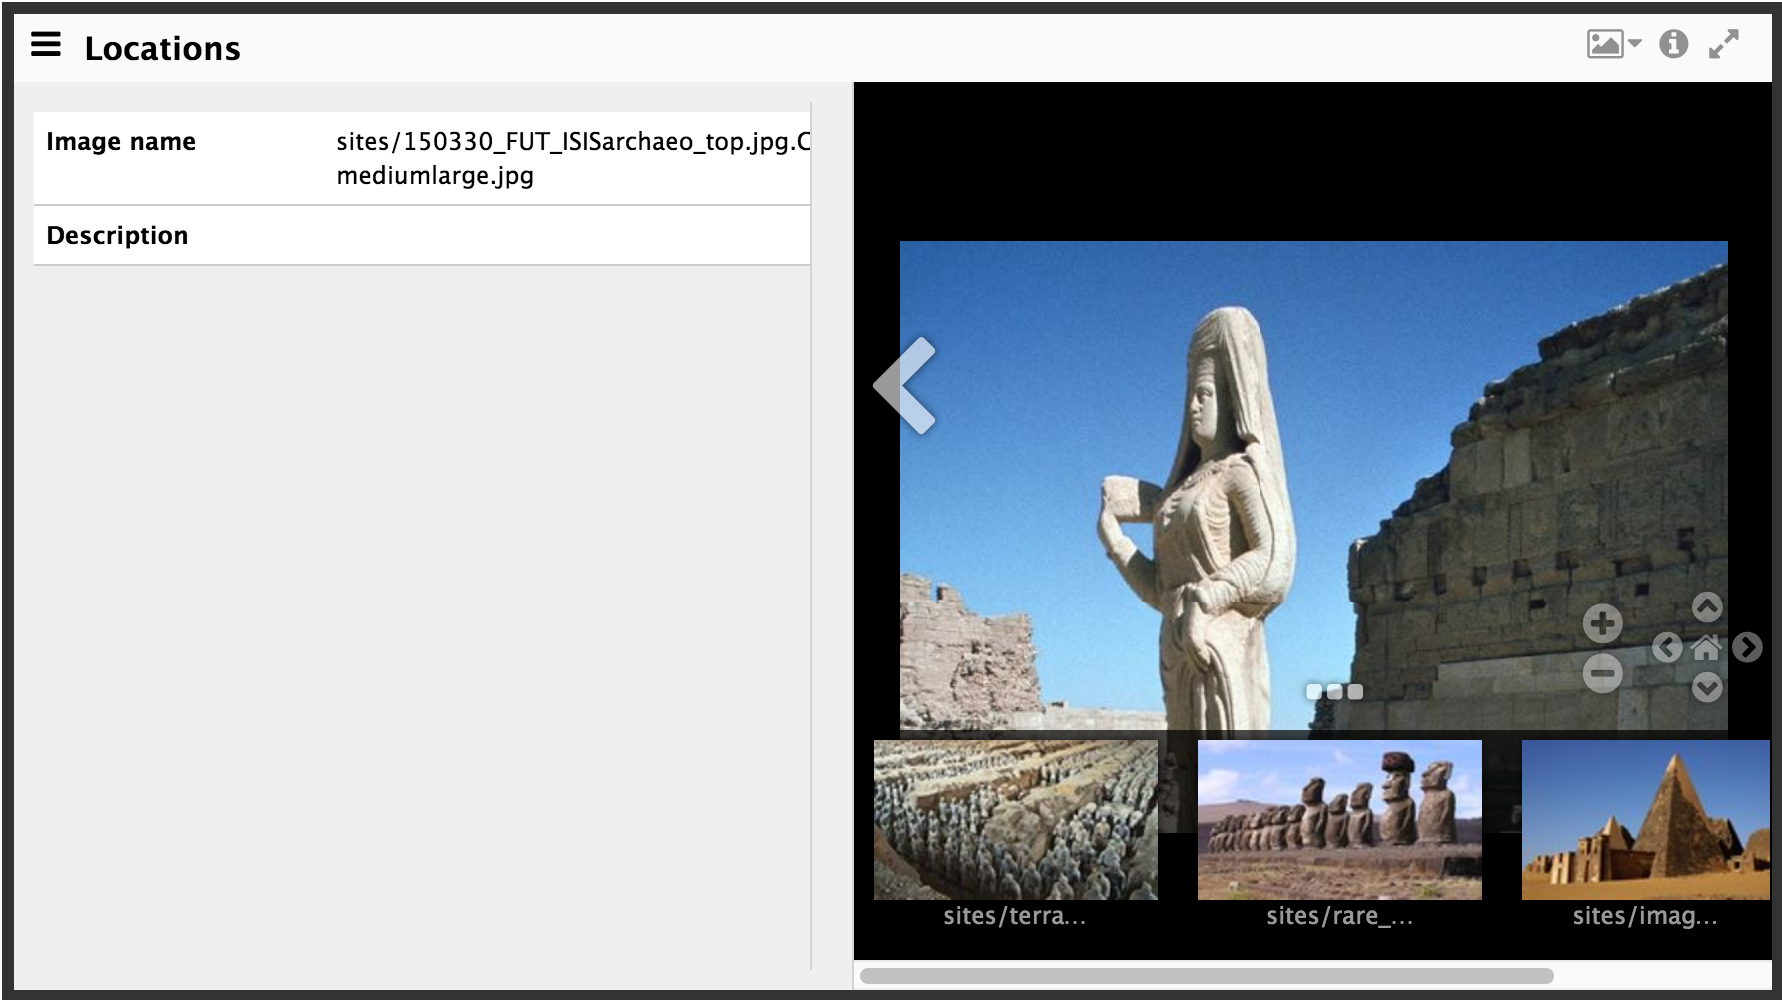
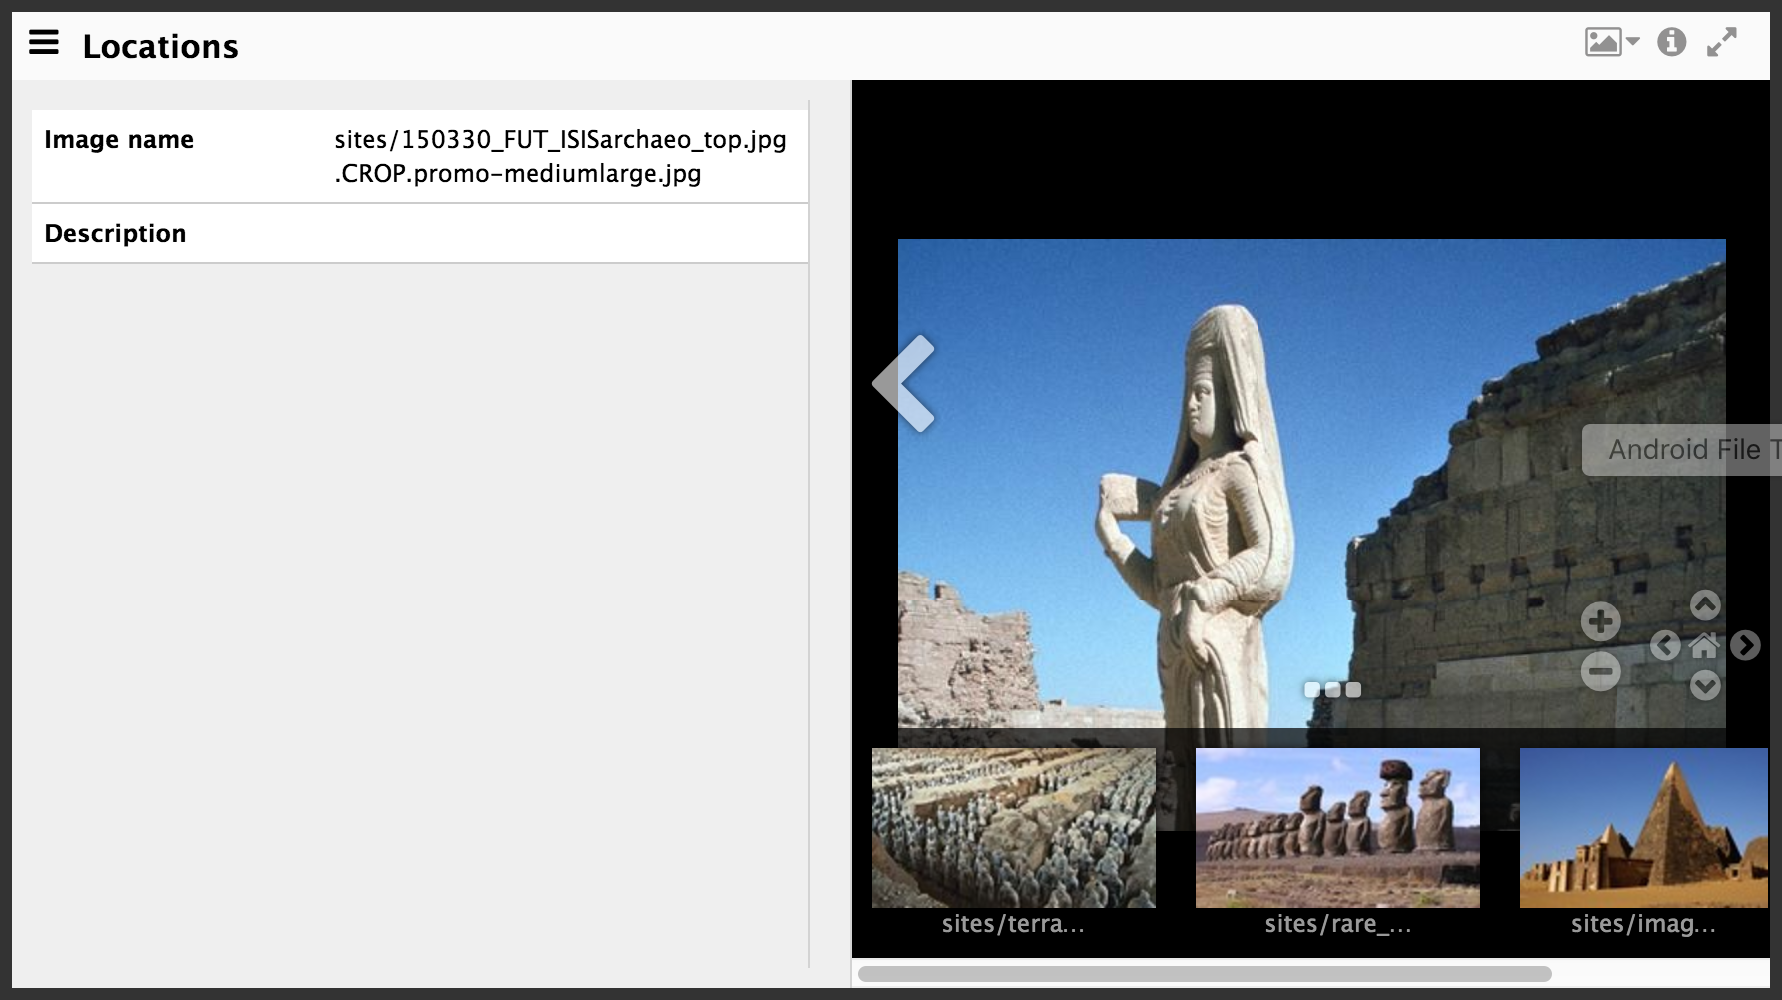
ATGU-456_MediaManagerWrap - screen capture and UI code of proposed interface

diff --git a/ATGU-456_MediaManagerWrap/index.html b/ATGU-456_MediaManagerWrap/index.html
@@ -4,7 +4,12 @@
         <tbody>
         <tr>
             <td class="label">Image name</td>
-            <td class="information">sites/150330_FUT_ISISarchaeo_top.jpg.CROP.promo-mediumlarge.jpg</td>
+<!--UI comment - adding inline style to the td and wrapping the filename in a div-->
+            <td class="information" style="word-wrap:break-word;">
+                <div style="width:230px;overflow:auto">
+                    sites/150330_FUT_ISISarchaeo_top.jpg.CROP.promo-mediumlarge.jpg
+                </div>
+            </td>
         </tr>
         <tr>
             <td class="label">Description</td>
